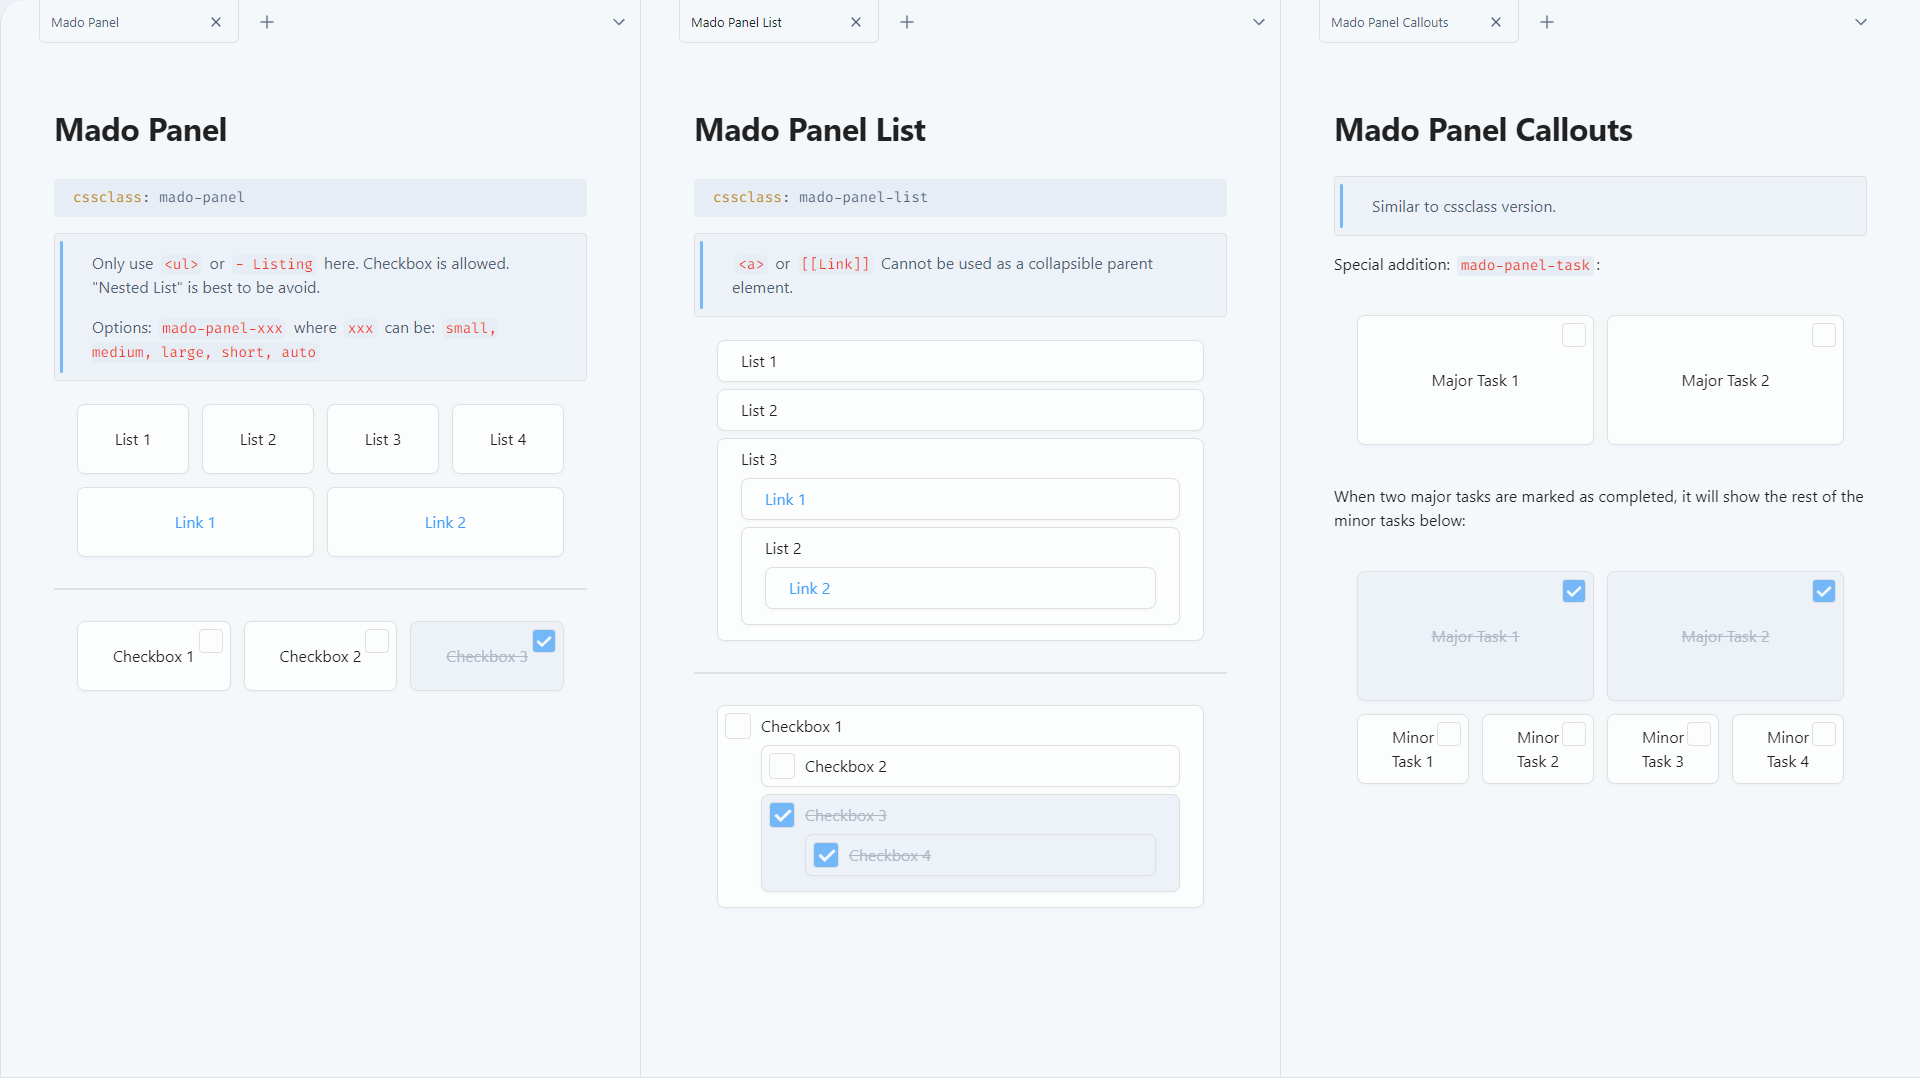
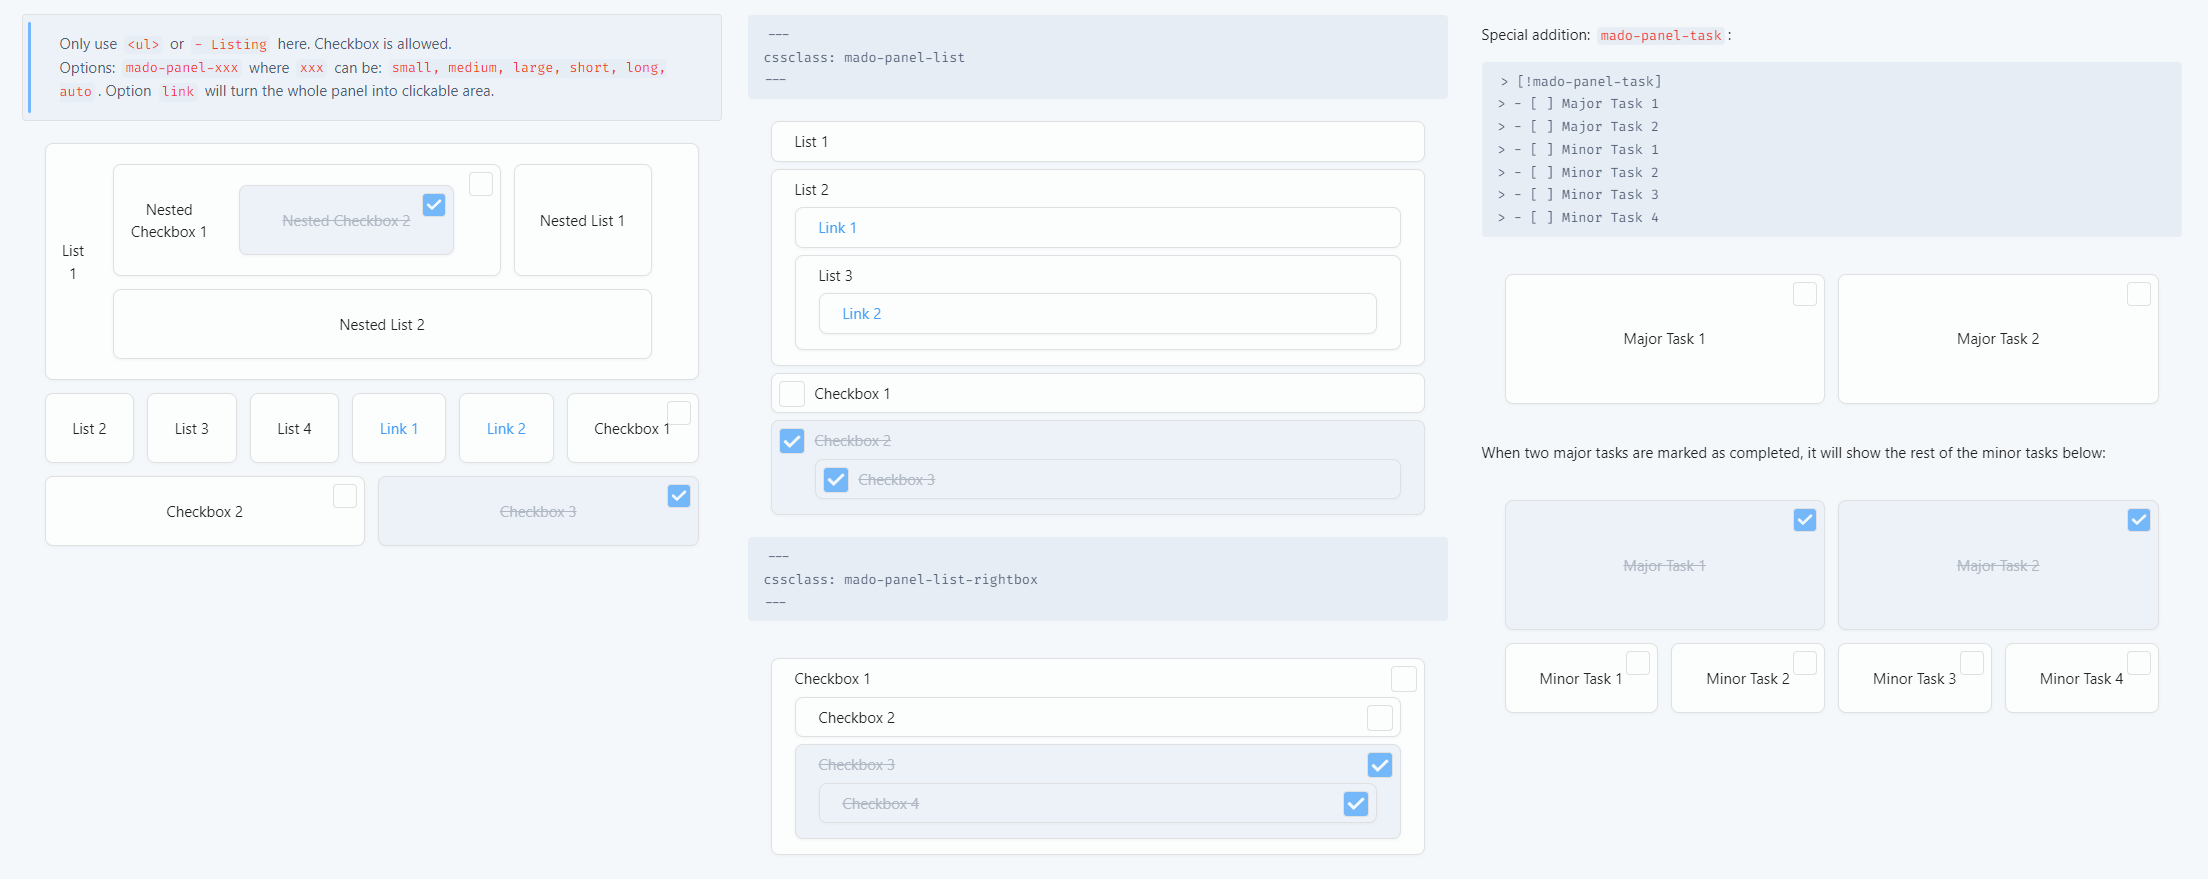
update panel style & readme

diff --git a/theme.css b/theme.css
@@ -2227,6 +2227,10 @@ div.callout[data-callout*="mado-panel"] .callout-content:before{
 }
 
 
+[class*="mado-panel"] .markdown-preview-sizer>div ul.has-list-bullet:before,
+div.callout[data-callout*="mado-panel"] ul.has-list-bullet:before{
+	display:none;
+}
 
 [class*="mado-panel"] .markdown-preview-sizer>div ul,
 div.callout[data-callout*="mado-panel"] ul{
@@ -2255,16 +2259,17 @@ div.callout[data-callout*="mado-panel"] ul li{
 	width:auto;
 	/* min-width:calc(100% / 4 - 10px); */
 	flex:auto;
-	height:70px;
+	min-height:70px;
 	overflow:hidden;
 }
 
 [class*="mado-panel"] .markdown-preview-sizer>div ul li .list-bullet{
 	display:none;
 }
-[class*="mado-panel"] .markdown-preview-sizer>div ul li:hover,
-div.callout[data-callout*="mado-panel"] ul li:hover{
-	background:var(--background-fifth);
+[class*="mado-panel"] .markdown-preview-sizer>div ul li:hover:not(:has(li:hover)),
+div.callout[data-callout*="mado-panel"] ul li:hover:not(:has(li:hover)){
+	/* background:var(--background-fifth); */
+	background:var(--background-primary);
 	transform:translateY(-3px);
 	box-shadow:var(--panel-shadow-hover);
 }
@@ -2323,7 +2328,7 @@ div.callout[data-callout*="mado-panel-list"] ul{
 div.callout[data-callout*="mado-panel-list"] ul li{
 	display:inline-block;
 	padding-block:8px;
-	height:unset;
+	min-height:unset;
 	text-align:left;
 	width:100%;
 	overflow:visible;

diff --git a/README.md b/README.md
@@ -14,20 +14,26 @@ Recommended fonts for this theme:
 - Code: Fira Code
 
 
+## Style Settings Available
+
+![](img/stylesettings.png)
+
+- Customizable theme colours, basic layout modifying, element hide-&-unhiding, and some basic markdown styling.
+
+
 ## Mado CSS Classes For Fun!
 <details>
-<summary><b>Mado-Heading</b></summary>
+<summary><b>Mado Heading</b></summary>
 
 ![](img/mado-heading.png)
 
 ```
 cssclass: mado-heading
 ```
-Transforming your normal note into more bulky block button design!
 
 </details>
 <details>
-<summary><b>Mado-Explorer</b></summary>
+<summary><b>Mado Explorer</b></summary>
 
 ![](img/mado-explorer.png)
 
@@ -45,6 +51,7 @@ There are rules for this to work:
 4. <li> will act as first level folder's children, where its contents should fill with just <a>, and itself should be placed below <h1>.
 5. Second level folder, or nested <li>, is not possible.
 6. For <h1> to be foldable, you have to enable the foldable option in the settings.
+7. To make a solo-file below a folder list, use an empty <h1> to act as a separator.
 
 ```
 
@@ -61,16 +68,13 @@ Example:
 
 </details>
 <details>
-<summary><b>Mado-Table</b></summary>
+<summary><b>Mado Table</b></summary>
 
 ![](img/mado-table.png)
 
 ```
 cssclass: mado-table
-```
-
-Turns your normal-looking table into a fancy spacious one! With more options provided for you to tweak the like of it.
-Example:
+``` 
 
 ```
 cssclass: mado-table (special styling)
@@ -90,16 +94,13 @@ mado-table-topless (remove table-header position on the top)
 
 </details>
 <details>
-<summary><b>Mado-Panel</b></summary>
+<summary><b>Mado Panel</b></summary>
 
 ![](img/mado-panel.png)
 
 ```
 cssclass: mado-panel
 ```
-
-Turns your lists into panels! More fancy way to look and click. Also comes with options to tweak.
-Example:
 
 ```
 cssclass: mado-panel (transform all lists into panels)
@@ -108,6 +109,7 @@ cssclass: mado-panel-XXX, mado-panel-XXX (including more options, in this case, 
 
 Options:
 mado-panel-list (long and thin size, lists can be nested)
+mado-panel-list-rightbox (the position of the checkbox in a list will be placed on the right instead of left)
 mado-panel-small, mado-panel-medium, mado-panel-large, mado-panel-long, mado-panel-short (define fixed-size, lists cannot be nested)
 mado-panel-auto (maintain the minimum fixed-size of above, while auto-widen based on its contents, not applicable to mado-panel-list)
 mado-panel-link (turns link into a full button. Must not mix with plain text inside a single list)
@@ -131,7 +133,7 @@ Example:
 
 </details>
 <details>
-<summary><b>Mado-Timeline</b></summary>
+<summary><b>Mado Timeline</b></summary>
 
 ![](img/mado-timeline.png)
 
@@ -139,11 +141,9 @@ Example:
 cssclass: mado-timeline
 ```
 
-Centers all of your element in the note! Not only that, using `<h1>` will form a huge space above it, while using `<h2>` will form a separator (a vertical `<hr>` or `---`) above it.
-
 </details>
 <details>
-<summary><b>Mado-Daily</b></summary>
+<summary><b>Mado Daily</b></summary>
 
 ```
 cssclass: mado-daily
@@ -157,15 +157,13 @@ Also, adding in another cssclass `mado-table` will give it a better looking, opt
 
 </details>
 <details>
-<summary><b>Mado-Table-Check & List2Table</b></summary>
+<summary><b>Mado Table Check & List2Table</b></summary>
 
 ![](img/mado-table-check.png)
 
 ```
 cssclass: mado-table-check
 ```
-
-Stamp a checkmark by manually using "strikethrough" (`~~~~`/`<del></del>`) inside the block, either on the value or beside the value!
 
 ```
 > [!mado-list2table]
@@ -174,6 +172,7 @@ Stamp a checkmark by manually using "strikethrough" (`~~~~`/`<del></del>`) insid
 >   - [ ] Checkboxes
 ```
 
+Stamp a checkmark by manually using "strikethrough" (`~~~~`/`<del></del>`) inside the block, either on the value or beside the value!
 Don't like manually stamping? Then try out callout `mado-list2table`! By turning a list of checklists into a pseudo-table, you can now mark a check on the block by directly clicking onto it!
 
 </details>
